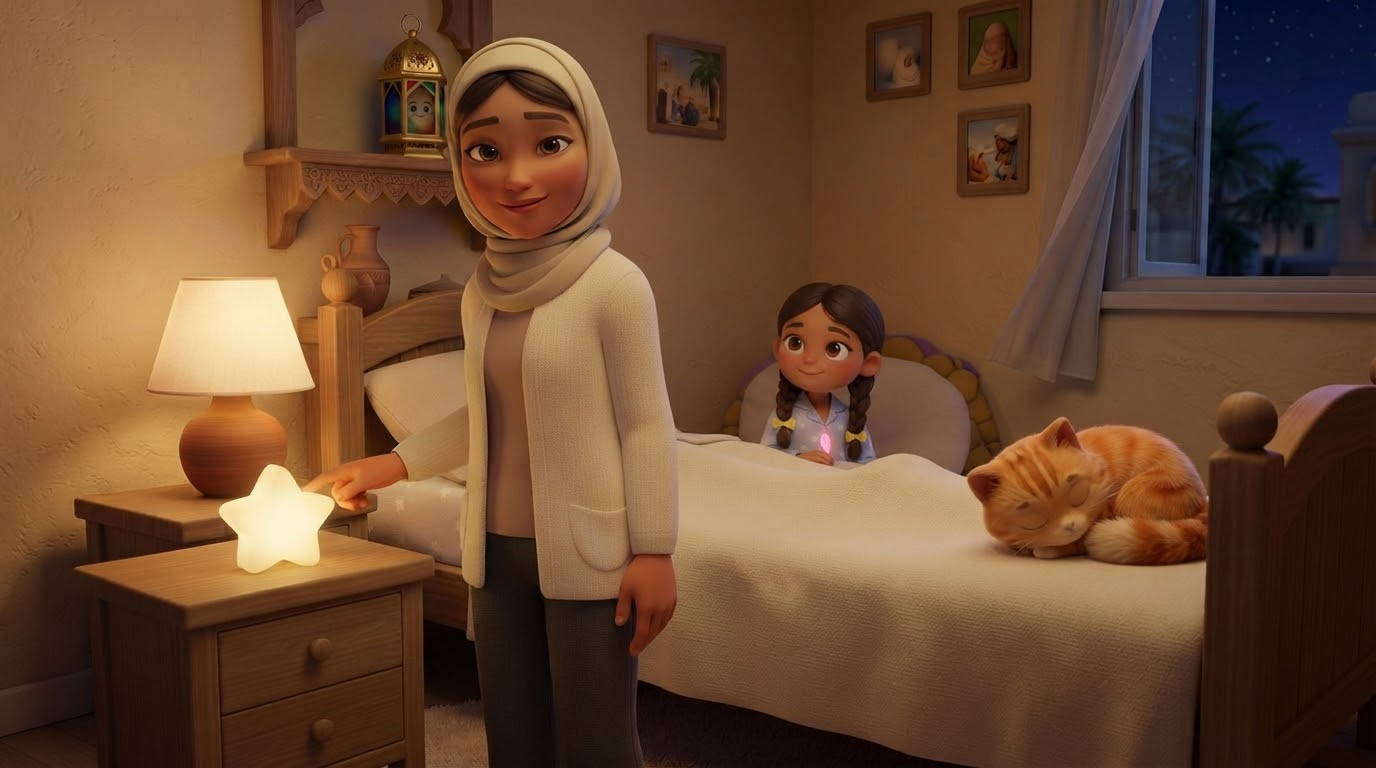
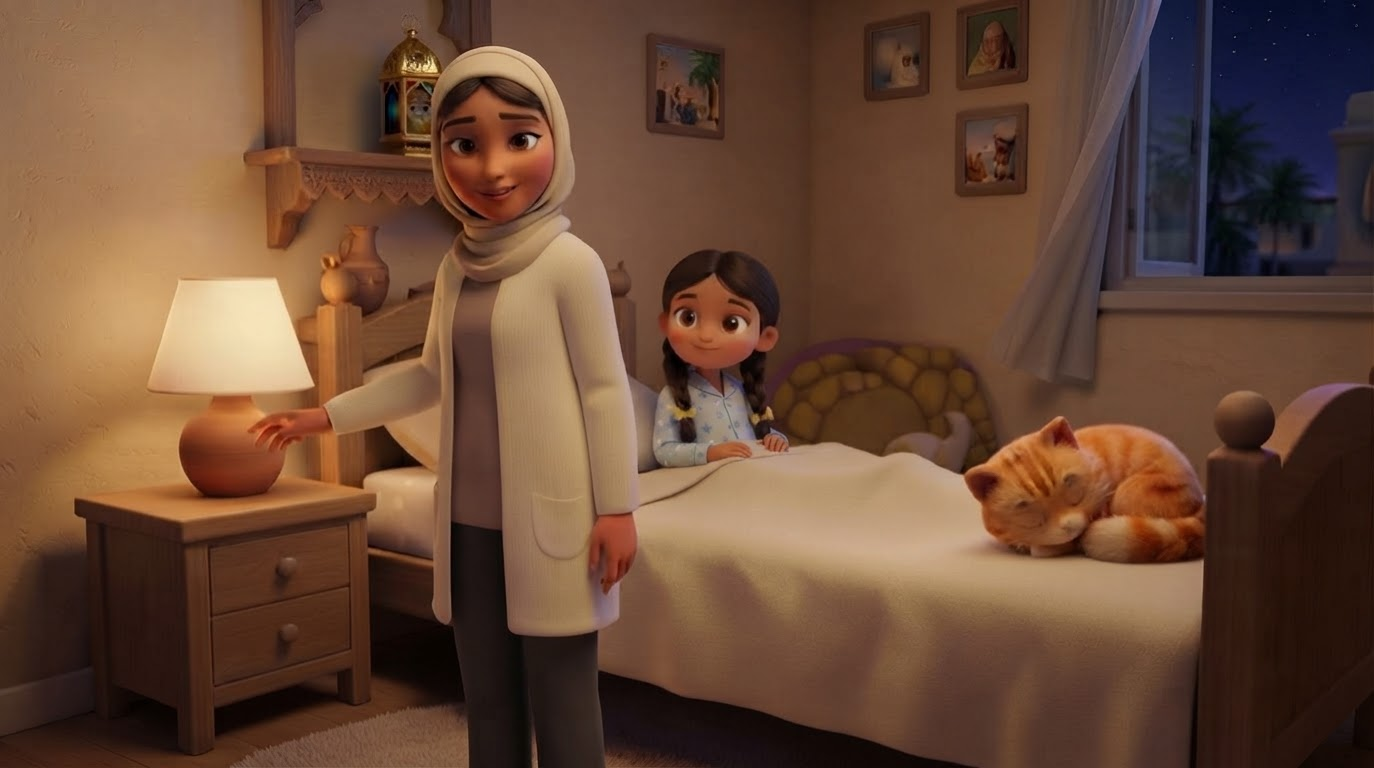
EP03: 04-8 final; use dim bedside lamp instead of star night light
Claude-Session: https://claude.ai/code/session_01VC8tZq8YJQcMsLYTyc8PJu

diff --git a/episodes/ep03/art/SHOTS-EP03.md b/episodes/ep03/art/SHOTS-EP03.md
@@ -29,15 +29,15 @@ Shot 04-6 (TALKING, Nour): (no necklace) Nour facing the camera with shy eyes gl
 ### رسالة 4
 ```
 Shot 04-7 (TALKING, Mama): (no necklace) Mama hugging Nour on the bed with one arm and pointing gently around the room with the other: the bed, the wooden wardrobe, a small teddy bear; Mama faces the camera, cozy lamp light. [011]
-Shot 04-8 (TALKING, Mama): (no necklace) Mama facing the camera, switching on a small star-shaped night light on the bedside table that glows soft yellow. [012]
-Shot 04-9 (TALKING, Nour): (no necklace) Nour facing the camera, curious, lying on her pillow, the small star night light glowing beside her. [013]
+Shot 04-8 (TALKING, Mama): (no necklace) Mama facing the camera, her hand on the bedside lamp, turning it down to a soft dim glow. [012]
+Shot 04-9 (TALKING, Nour): (no necklace) Nour facing the camera, curious, lying on her pillow, the bedside lamp glowing softly and dimly beside her. [013]
 ```
 
 ### رسالة 5
 ```
 Shot 04-10 (TALKING, Mama): (no necklace) Mama facing the camera, smiling with a dreamy remembering look, pulling the cream blanket up over Nour like a big cozy cover. [014]
 Shot 04-11 (TALKING, Nour): (no necklace) Nour facing the camera, giggling, the blanket pulled up to her chin, eyes squeezed happily. [015-016]
-Shot 04-12: (no necklace) Mama at the half-open bedroom door looking back lovingly; the room is dark except the small star night light; Nour snuggled in bed. [017-018]
+Shot 04-12: (no necklace) Mama at the half-open bedroom door looking back lovingly; the room is dark except the dim bedside lamp; Nour snuggled in bed. [017-018]
 ```
 
 ### رسالة 6
@@ -225,13 +225,13 @@ Shot 15-5 (TALKING, Lumaa): Lumaa facing the camera, yawning cutely, tiny star s
 ### رسالة 32
 ```
 Shot 15-6: outside the cave entrance, Sharara waving goodbye happily as Nour, Lumaa and the lantern fly away into the starry sky over the Crystal Mountains. [117, 120-121]
-Shot 16-1: Nour back in her bed at night, placing the tiny glowing crystal next to her pillow; the star night light still on; Mishmish asleep at her feet. [122]
+Shot 16-1: Nour back in her bed at night, placing the tiny glowing crystal next to her pillow; the dim bedside lamp still on; Mishmish asleep at her feet. [122]
 Shot 16-2 (TALKING, Nour): Nour in bed facing the camera, soft brave smile, the glowing crystal beside her. [123]
 ```
 
 ### رسالة 33
 ```
-Shot 16-3: Nour reaches out and switches off the star night light; the room is dark except for the soft glow of the tiny crystal; Nour is not wearing the necklace. [124-125]
+Shot 16-3: Nour reaches out and switches off the dim bedside lamp; the room is dark except for the soft glow of the tiny crystal; Nour is not wearing the necklace. [124-125]
 Shot 16-4 (TALKING, Lantern): the lantern on the shelf in the dark room, facing the camera, softly glowing, proud gentle smile. [126]
 Shot 16-5: Nour asleep smiling without the necklace, the tiny crystal glowing beside her pillow; Lumaa twinkles outside the window. [127-130]
 ```

diff --git a/episodes/ep03/art/SHOTS-ONE-BY-ONE.md b/episodes/ep03/art/SHOTS-ONE-BY-ONE.md
@@ -54,12 +54,12 @@ Shot 04-7 (TALKING, Mama): (no necklace) Mama hugging Nour on the bed with one a
 
 ### 04-8
 ```
-Shot 04-8 (TALKING, Mama): (no necklace) Mama facing the camera, switching on a small star-shaped night light on the bedside table that glows soft yellow. One single wide 16:9 image.
+Shot 04-8 (TALKING, Mama): (no necklace) Mama facing the camera, her hand on the bedside lamp, turning it down to a soft dim glow. One single wide 16:9 image.
 ```
 
 ### 04-9
 ```
-Shot 04-9 (TALKING, Nour): (no necklace) Nour facing the camera, curious, lying on her pillow, the small star night light glowing beside her. One single wide 16:9 image.
+Shot 04-9 (TALKING, Nour): (no necklace) Nour facing the camera, curious, lying on her pillow, the bedside lamp glowing softly and dimly beside her. One single wide 16:9 image.
 ```
 
 ### 04-10
@@ -74,7 +74,7 @@ Shot 04-11 (TALKING, Nour): (no necklace) Nour facing the camera, giggling, the 
 
 ### 04-12
 ```
-Shot 04-12: (no necklace) Mama at the half-open bedroom door looking back lovingly; the room is dark except the small star night light; Nour snuggled in bed. One single wide 16:9 image.
+Shot 04-12: (no necklace) Mama at the half-open bedroom door looking back lovingly; the room is dark except the dim bedside lamp; Nour snuggled in bed. One single wide 16:9 image.
 ```
 
 ### 05-1
@@ -474,7 +474,7 @@ Shot 15-6: outside the cave entrance, Sharara waving goodbye happily as Nour, Lu
 
 ### 16-1
 ```
-Shot 16-1: Nour back in her bed at night, placing the tiny glowing crystal next to her pillow; the star night light still on; Mishmish asleep at her feet. One single wide 16:9 image.
+Shot 16-1: Nour back in her bed at night, placing the tiny glowing crystal next to her pillow; the dim bedside lamp still on; Mishmish asleep at her feet. One single wide 16:9 image.
 ```
 
 ### 16-2
@@ -484,7 +484,7 @@ Shot 16-2 (TALKING, Nour): Nour in bed facing the camera, soft brave smile, the 
 
 ### 16-3
 ```
-Shot 16-3: Nour reaches out and switches off the star night light; the room is dark except for the soft glow of the tiny crystal; Nour is not wearing the necklace. One single wide 16:9 image.
+Shot 16-3: Nour reaches out and switches off the dim bedside lamp; the room is dark except for the soft glow of the tiny crystal; Nour is not wearing the necklace. One single wide 16:9 image.
 ```
 
 ### 16-4
